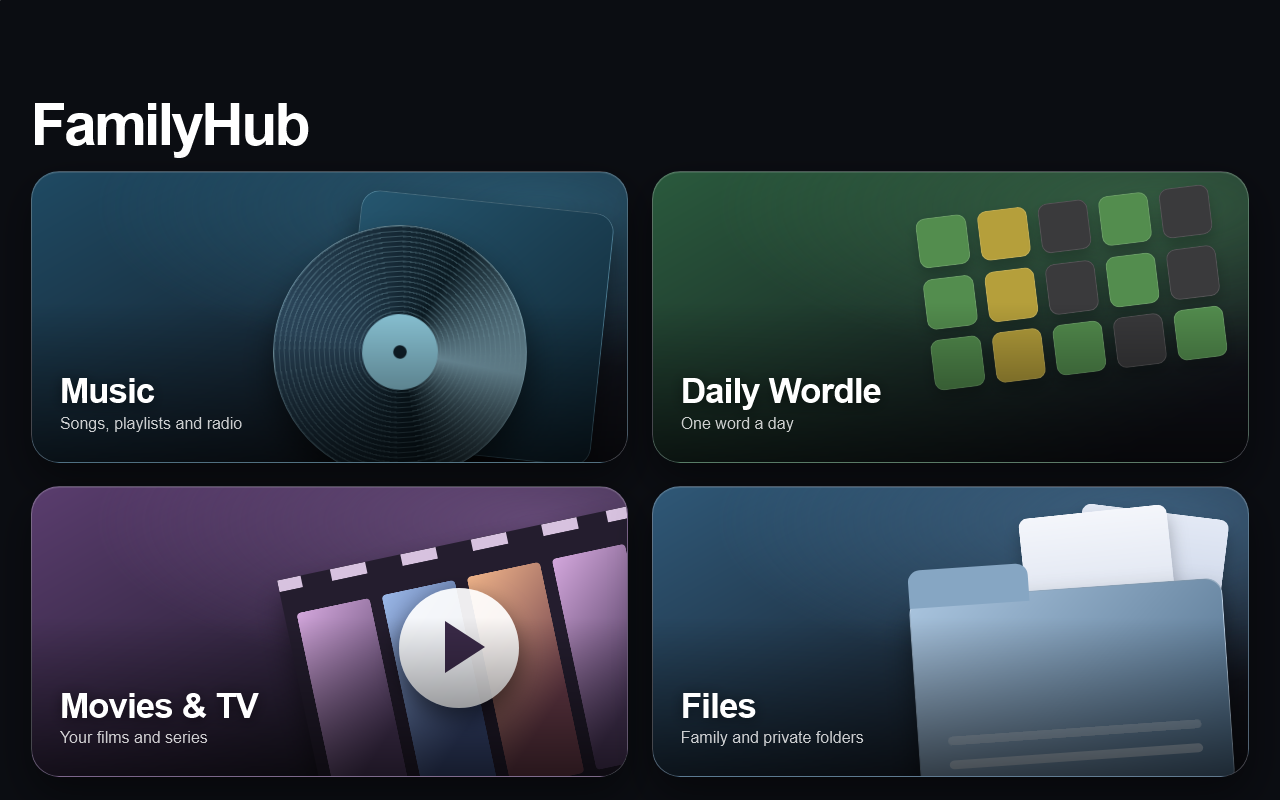
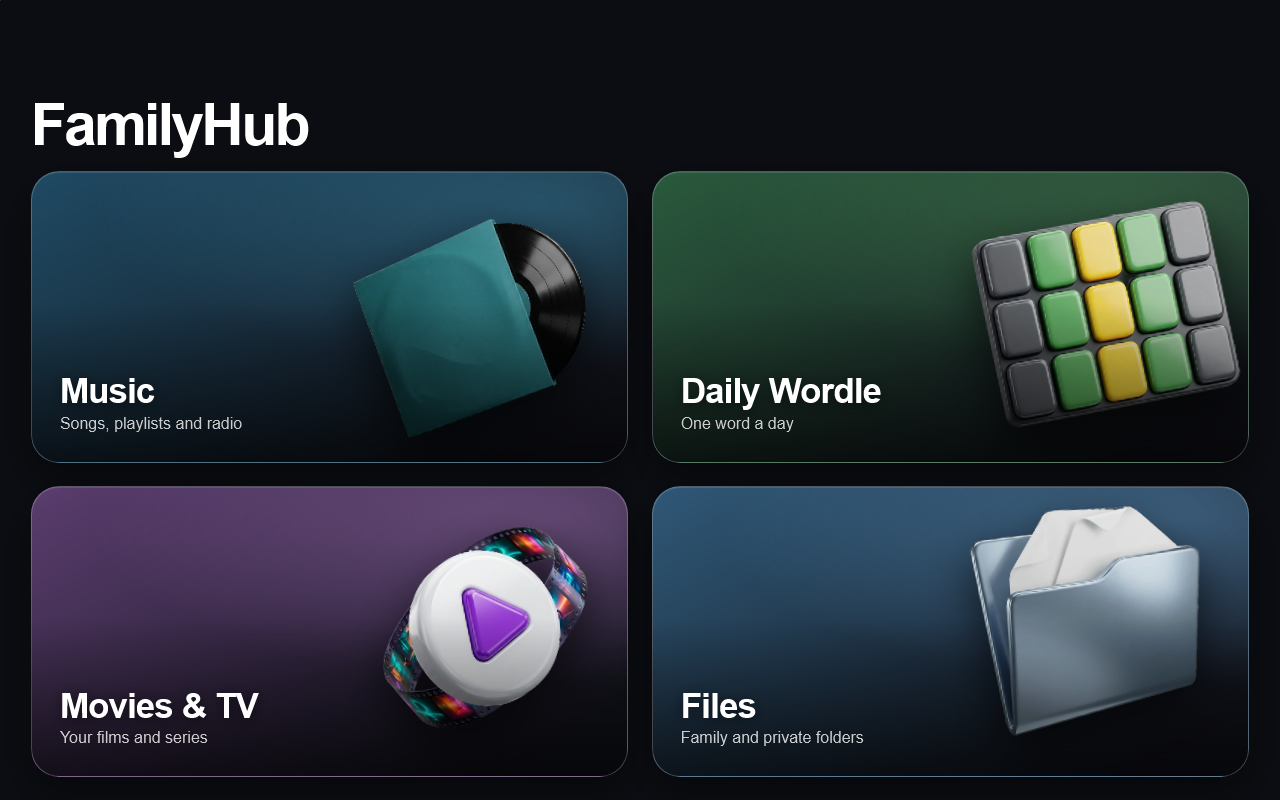
Release tiles with sorting and quality colours, picture tiles on the apps screen, opening zoom

diff --git a/clients/FamilyHub.App/wwwroot/movie-releases.js b/clients/FamilyHub.App/wwwroot/movie-releases.js
@@ -24,18 +24,42 @@ export function releaseKind(title) {
     return season ? `Full season ${Number(season[1])}` : "";
 }
 
-/** A short quality label (4K, 1080p, ...) and the source it was made from, read from the release name. */
+const TIERS = {
+    uhd: { rank: 6, note: "Ultra HD: the sharpest picture." },
+    remux: { rank: 5, note: "Remux: the untouched Blu-ray video. The best picture there is, and a very big file." },
+    bluray: { rank: 4, note: "Blu-ray: a compressed copy of the disc, a very good picture." },
+    web: { rank: 3, note: "Web: taken from a streaming service." },
+    hd: { rank: 2, note: "HD, but smaller and softer than 1080p." },
+    tv: { rank: 1, note: "From TV or DVD. A plain picture." },
+    poor: { rank: 0, note: "Low quality: a camera copy or a very small picture." }
+};
+
+/** The quality tier (drives the colour), a short label such as "1080p Blu-ray", and a plain-words note. */
 export function releaseQuality(title) {
     const height = resolution(title);
+    const hdr = /\b(?:HDR10\+?|HDR|DV|Dolby[ ._-]?Vision)\b/i.test(title);
+    const camera = /\b(?:CAM|HDCAM|TS|HDTS|TELESYNC|TELECINE)\b/i.test(title);
+    const remux = /\bremux\b/i.test(title);
+    const bluray = /\b(?:blu-?ray|bdrip|brrip)\b/i.test(title);
+    const web = /\b(?:web-?dl|webrip|web)\b/i.test(title);
+    const tv = /\b(?:hdtv|pdtv|dvdrip)\b/i.test(title);
+    const source = camera ? "Camera copy" : remux ? "Remux" : bluray ? "Blu-ray" : web ? "Web" : tv ? "TV or DVD" : "";
     const picture = height >= 2160 ? "4K" : height ? `${height}p` : "";
-    const hdr = /\b(?:HDR10\+?|HDR|DV|Dolby[ ._-]?Vision)\b/i.test(title) ? "HDR" : "";
-    let source = "";
-    if (/\b(?:CAM|HDCAM|TS|HDTS|TELESYNC|TELECINE)\b/i.test(title)) source = "Camera copy";
-    else if (/\bremux\b/i.test(title)) source = "Remux";
-    else if (/\b(?:blu-?ray|bdrip|brrip)\b/i.test(title)) source = "Blu-ray";
-    else if (/\b(?:web-?dl|webrip|web)\b/i.test(title)) source = "Web";
-    else if (/\b(?:hdtv|pdtv|dvdrip)\b/i.test(title)) source = "TV or DVD";
-    return { label: [picture, hdr].filter(Boolean).join(" · ") || "Quality unknown", source, poor: source === "Camera copy" || (height > 0 && height < 720) };
+    let tier = "web";
+    if (camera || (height > 0 && height < 576)) tier = "poor";
+    else if (height >= 2160) tier = "uhd";
+    else if (remux) tier = "remux";
+    else if (bluray) tier = "bluray";
+    else if (web) tier = "web";
+    else if (tv) tier = "tv";
+    else if (height >= 1080) tier = "bluray";
+    else if (height >= 720) tier = "hd";
+    else tier = "tv";
+    if (tier === "web" && height > 0 && height < 1080 && height >= 720) tier = "hd";
+    const label = height >= 2160
+        ? ["4K", hdr ? "HDR" : "", remux ? "Remux" : bluray ? "Blu-ray" : web ? "Web" : ""].filter(Boolean).join(" ")
+        : [picture, source].filter(Boolean).join(" ") || "Quality unknown";
+    return { tier, label, source, poor: tier === "poor", rank: TIERS[tier].rank, note: TIERS[tier].note };
 }
 
 export function downloadTime(bytes, mbps = ASSUMED_MBPS) {
@@ -44,12 +68,33 @@ export function downloadTime(bytes, mbps = ASSUMED_MBPS) {
     return minutes < 60 ? `about ${minutes} min` : `about ${Math.floor(minutes / 60)} h ${String(minutes % 60).padStart(2, "0")} min`;
 }
 
-function health(seeders) {
-    if (!seeders) return ["none", seeders === 0 ? "No seeders" : "Seeders unknown"];
-    return [seeders >= 5 ? "good" : "low", `${seeders} ${seeders === 1 ? "seeder" : "seeders"}`];
+/** How easy the file is to get, in words. The number of people sharing it stays in the tooltip. */
+export function availability(seeders) {
+    if (seeders === null || seeders === undefined) return ["unknown", "Availability unknown"];
+    if (seeders >= 100) return ["great", "Very easy to get"];
+    if (seeders >= 20) return ["good", "Easy to get"];
+    if (seeders >= 5) return ["ok", "Available"];
+    if (seeders >= 1) return ["slow", "Slow, few sources"];
+    return ["none", "Hard to get"];
 }
 
-export function buildReleaseSearch(search, signal, requestsEnabled) {
+/** A readable name for the tile: the title, then the year when the release name has one. */
+export function displayTitle(name) {
+    const spaced = name.replace(/[[(].*?[\])]/g, " ").replace(/[._]+/g, " ");
+    const cut = spaced.search(/\b(?:19|20)\d{2}\b|\bS\d{1,2}(?:E\d{1,3})?\b|\b(?:2160|1440|1080|720|576|480)[pi]\b|\bseasons?\b|\bcomplete\b|\b(?:uhd|bluray|blu-ray|web-?dl|webrip|hdtv|remux)\b/i);
+    const title = (cut > 0 ? spaced.slice(0, cut) : spaced).replace(/\s+/g, " ").trim();
+    const year = name.match(/(?:^|[ ._([])((?:19|20)\d{2})(?=[ ._)\]]|$)/)?.[1];
+    return (title || name) + (year && cut > 0 ? ` (${year})` : "");
+}
+
+const SORTS = [
+    ["best", "Best match"],
+    ["quality", "Quality"],
+    ["size", "Smallest file"],
+    ["speed", "Easiest to get"]
+];
+
+export function buildReleaseSearch(search, signal, requestsEnabled, download = null) {
     const panel = document.createElement("section");
     panel.className = "movie-releases";
     panel.hidden = true;
@@ -58,7 +103,8 @@ export function buildReleaseSearch(search, signal, requestsEnabled) {
         <button type="button" hidden>Retry release lookup</button>
         <details class="movie-source-details" hidden>
             <summary>Releases</summary>
-            <p class="movie-web-meta" data-release-availability hidden>Your profile cannot request downloads, so this list is for reference.</p>
+            <div class="movie-release-tools" role="group" aria-label="Sort releases"></div>
+            <p class="movie-web-meta" data-release-availability hidden>Downloading is not switched on for your profile. Ask the server owner to turn it on.</p>
             <p class="movie-web-meta">Times assume a ${ASSUMED_MBPS} Mbps connection.</p>
             <ul class="movie-source-list" aria-label="Release results"></ul>
             <button type="button" class="movie-release-more" hidden>Show all releases</button>
@@ -67,10 +113,22 @@ export function buildReleaseSearch(search, signal, requestsEnabled) {
     const options = panel.querySelector("details");
     const summary = options.querySelector("summary");
     const more = panel.querySelector(".movie-release-more");
-    options.querySelector("[data-release-availability]").hidden = !!requestsEnabled;
+    const tools = panel.querySelector(".movie-release-tools");
+    const canDownload = typeof download === "function";
+    options.querySelector("[data-release-availability]").hidden = canDownload;
     const status = panel.querySelector('[role="status"]');
     const list = panel.querySelector("ul");
-    let rows = [], unavailable = 0, busy = false, complete = false, showAll = false;
+    let rows = [], unavailable = 0, busy = false, complete = false, showAll = false, sortBy = "best";
+
+    const sortButtons = SORTS.map(([id, label]) => {
+        const choice = document.createElement("button");
+        choice.type = "button";
+        choice.textContent = label;
+        choice.dataset.sort = id;
+        choice.addEventListener("click", () => { sortBy = id; showAll = false; render(); });
+        tools.append(choice);
+        return choice;
+    });
 
     function chip(className, text, level) {
         const node = document.createElement("span");
@@ -80,32 +138,83 @@ export function buildReleaseSearch(search, signal, requestsEnabled) {
         return node;
     }
 
+    function compare(a, b) {
+        // Healthy releases first, so a perfect copy that nobody shares never leads the list.
+        const group = row => !row.seeders ? 2 : row.quality.rank >= 3 ? 0 : 1;
+        const quality = b.quality.rank - a.quality.rank || b.height - a.height;
+        const speed = (b.seeders ?? -1) - (a.seeders ?? -1);
+        const size = (a.size ?? 1e18) - (b.size ?? 1e18);
+        if (sortBy === "quality") return quality || speed || size;
+        if (sortBy === "size") return size || quality;
+        if (sortBy === "speed") return speed || quality;
+        return group(a) - group(b) || quality || speed || size;
+    }
+
     function render() {
         if (busy || !complete) return;
-        // Healthy 1080p and better first, then smaller pictures, then files nobody is sharing.
-        const group = row => !row.seeders ? 2 : row.height >= 1080 && !row.quality.poor ? 0 : 1;
-        const sorted = rows.slice().sort((a, b) => group(a) - group(b) || b.height - a.height || b.seeders - a.seeders || (a.size ?? 1e18) - (b.size ?? 1e18));
+        for (const choice of sortButtons) choice.setAttribute("aria-pressed", String(choice.dataset.sort === sortBy));
+        const sorted = rows.slice().sort(compare);
         const shown = showAll ? sorted : sorted.slice(0, FIRST_PAGE);
         list.replaceChildren(...shown.map((row, index) => {
             const item = document.createElement("li");
             item.className = "movie-release";
-            const top = document.createElement("div");
-            top.className = "movie-release-top";
-            if (index === 0 && group(row) === 0 && row.seeders >= 5) top.append(chip("movie-release-pick", "Recommended"));
-            top.append(chip("movie-release-quality", row.quality.label, row.quality.poor ? "poor" : ""));
-            if (row.kind) top.append(chip("movie-release-kind", row.kind));
-            const [level, seeding] = health(row.seeders);
-            top.append(chip("movie-release-health", seeding, level));
+            item.dataset.tier = row.quality.tier;
+            const head = document.createElement("div");
+            head.className = "movie-release-head";
+            const heading = document.createElement("h3");
+            heading.className = "movie-release-title";
+            heading.textContent = displayTitle(row.title);
+            const badges = document.createElement("div");
+            badges.className = "movie-release-top";
+            if (sortBy === "best" && index === 0 && row.seeders >= 20 && row.quality.rank >= 3) badges.append(chip("movie-release-pick", "Recommended"));
+            badges.append(chip("movie-release-quality", row.quality.label, row.quality.tier));
+            if (row.kind) badges.append(chip("movie-release-kind", row.kind));
+            head.append(heading, badges);
+
+            const [level, words] = availability(row.seeders);
+            const stats = document.createElement("dl");
+            stats.className = "movie-release-stats";
+            const stat = (label, value, extra) => {
+                const cell = document.createElement("div");
+                const term = document.createElement("dt"), detail = document.createElement("dd");
+                term.textContent = label;
+                detail.textContent = value;
+                if (extra) detail.dataset.level = extra;
+                cell.append(term, detail);
+                stats.append(cell);
+                return detail;
+            };
+            stat("Size", row.size ? `${(row.size / gib).toFixed(1)} GB` : "Unknown");
+            stat("Download time", row.size && row.seeders ? downloadTime(row.size) : "Not known");
+            const detail = stat("Availability", words, level);
+            if (row.seeders !== null) detail.title = `${row.seeders} ${row.seeders === 1 ? "person shares" : "people share"} this file`;
+
+            const note = document.createElement("p");
+            note.className = "movie-release-note";
+            note.textContent = row.quality.note + (row.size > 40 * gib ? " Big files use a lot of server space." : "");
+
             const name = document.createElement("strong");
             name.className = "movie-release-name";
             name.textContent = row.title;
-            const facts = document.createElement("p");
-            facts.className = "movie-release-facts";
-            const parts = [row.size ? `${(row.size / gib).toFixed(1)} GB` : "Size unknown"];
-            if (row.size && row.seeders) parts.push(`${downloadTime(row.size)} to download`);
-            if (row.quality.source) parts.push(row.quality.source);
-            facts.textContent = parts.join(" · ");
-            item.append(top, name, facts);
+
+            const action = document.createElement("button");
+            action.type = "button";
+            action.className = "movie-release-action";
+            action.textContent = "Download";
+            action.setAttribute("aria-label", `Download ${displayTitle(row.title)}, ${row.quality.label}, ${row.size ? (row.size / gib).toFixed(1) + " GB" : "size unknown"}`);
+            if (!canDownload) {
+                action.setAttribute("aria-disabled", "true");
+                action.title = "Downloading is not switched on for your profile.";
+            }
+            action.addEventListener("click", async () => {
+                if (!canDownload || action.getAttribute("aria-disabled") === "true") return;
+                action.setAttribute("aria-disabled", "true");
+                action.textContent = "Starting…";
+                const reply = await Promise.resolve(download(row)).catch(() => ({ error: "Could not start the download. Try again." }));
+                action.textContent = reply?.error ? "Try again" : "Added to the server";
+                if (reply?.error) { action.removeAttribute("aria-disabled"); status.textContent = reply.error; }
+            });
+            item.append(head, stats, note, name, action);
             return item;
         }));
         more.hidden = showAll || sorted.length <= FIRST_PAGE;
@@ -117,7 +226,7 @@ export function buildReleaseSearch(search, signal, requestsEnabled) {
         showAll = true;
         render();
         // Focus moves to the first newly shown release, so the button's removal never drops it to the page.
-        const next = list.querySelector(`li:nth-child(${FIRST_PAGE + 1}) strong`);
+        const next = list.querySelector(`li:nth-child(${FIRST_PAGE + 1}) .movie-release-title`);
         if (next) { next.tabIndex = -1; next.focus(); } else summary.focus();
     });
     async function load() {

diff --git a/clients/FamilyHub.App/wwwroot/startup.css b/clients/FamilyHub.App/wwwroot/startup.css
@@ -11,31 +11,37 @@
 .startup-screen, .night-backdrop { background:var(--night-backdrop); }
 .startup-screen { position:fixed; inset:0; z-index:100; display:grid; place-items:center; margin:0; overflow:hidden; }
 .startup-stage { display:grid; justify-items:center; gap:1.6rem; animation:startup-stage-in 1s cubic-bezier(.2,.7,.2,1) both; }
-.startup-disc { position:relative; width:92px; height:92px; animation:startup-rise 1.1s cubic-bezier(.2,.7,.2,1) both; }
-.startup-disc img { display:block; width:100%; height:100%; border-radius:50%; animation:startup-glow 2.8s ease-in-out 1.1s infinite; }
+.startup-disc { position:relative; width:92px; height:92px; animation:startup-rise 1.1s cubic-bezier(.2,.7,.2,1) both; will-change:transform, opacity; }
+.startup-disc::before { content:""; position:absolute; inset:-34%; border-radius:50%; background:radial-gradient(circle, #f19cda55 0, #89b4ff33 46%, #0000 70%); opacity:.35; animation:startup-glow 2.8s ease-in-out 1.1s infinite alternate; will-change:transform, opacity; }
+.startup-disc img { position:relative; display:block; width:100%; height:100%; border-radius:50%; }
 /* A ring of light that circles the logo while the app prepares itself. */
 .startup-orbit { position:absolute; inset:-16px; border-radius:50%; background:conic-gradient(from 0deg, #0000 0 62%, #89b4ff 86%, #f19cda 100%);
     -webkit-mask:radial-gradient(farthest-side, #0000 calc(100% - 3px), #000 calc(100% - 2px)); mask:radial-gradient(farthest-side, #0000 calc(100% - 3px), #000 calc(100% - 2px));
-    animation:startup-spin 1.7s linear infinite; opacity:.9; }
-.startup-word { margin:0; color:#ffffffe6; font:600 1.1rem/1 system-ui, -apple-system, "Segoe UI", Roboto, sans-serif; letter-spacing:.14em; text-indent:.14em; animation:startup-word-in 1.3s cubic-bezier(.2,.7,.2,1) .5s both; }
+    animation:startup-spin 1.7s linear infinite; opacity:.9; will-change:transform; }
+.startup-word { margin:0; color:#ffffffe6; font:600 1.1rem/1 system-ui, -apple-system, "Segoe UI", Roboto, sans-serif; letter-spacing:.14em; text-indent:.14em; animation:startup-word-in 1.3s cubic-bezier(.2,.7,.2,1) .5s both; will-change:transform, opacity; }
 .startup-line { position:absolute; left:50%; bottom:max(14vh, 4rem); width:min(16rem, 56vw); height:3px; border-radius:2px; background:#ffffff26; transform:translateX(-50%); animation:startup-stage-in .8s ease .9s both; }
-.startup-line span { display:block; height:100%; border-radius:2px; background:linear-gradient(90deg, #89b4ff, #f19cda); animation:startup-fill 3.2s cubic-bezier(.3,.6,.2,1) .9s both; }
+.startup-line span { display:block; width:100%; height:100%; border-radius:2px; background:linear-gradient(90deg, #89b4ff, #f19cda); transform-origin:left center; animation:startup-fill 3.2s cubic-bezier(.3,.6,.2,1) .9s both; will-change:transform; }
 /* Twinkling stars over the static ones in the backdrop. */
 .startup-twinkle { position:absolute; inset:0; pointer-events:none; background:
     radial-gradient(3px 3px at 22% 30%, #fff 45%, #0000 70%), radial-gradient(3px 3px at 71% 64%, #ffd9f2 45%, #0000 70%),
     radial-gradient(2px 2px at 56% 16%, #fff 45%, #0000 70%), radial-gradient(3px 3px at 84% 38%, #cfe0ff 45%, #0000 70%),
-    radial-gradient(2px 2px at 14% 74%, #fff 45%, #0000 70%); animation:startup-twinkle 3.4s ease-in-out infinite alternate; }
-.startup-screen.is-leaving { animation:startup-out .56s ease both; pointer-events:none; }
+    radial-gradient(2px 2px at 14% 74%, #fff 45%, #0000 70%); animation:startup-twinkle 3.4s ease-in-out infinite alternate; will-change:opacity; }
+.startup-screen.is-leaving { animation:startup-out .8s ease both; pointer-events:none; }
+.startup-screen.is-leaving .startup-disc { animation:startup-zoom .8s cubic-bezier(.55,0,.3,1) both; }
+.startup-screen.is-leaving .startup-disc::before { animation:none; opacity:0; }
+.startup-screen.is-leaving :is(.startup-word, .startup-line, .startup-orbit, .startup-twinkle) { animation:startup-fade .22s ease both; }
 @keyframes startup-rise { from { opacity:0; transform:translateY(16px) scale(.88); } to { opacity:1; transform:none; } }
 @keyframes startup-stage-in { from { opacity:0; } to { opacity:1; } }
-@keyframes startup-word-in { from { opacity:0; letter-spacing:.5em; text-indent:.5em; } to { opacity:1; letter-spacing:.14em; text-indent:.14em; } }
-@keyframes startup-glow { 0%,100% { box-shadow:0 0 22px 2px #89b4ff30; } 50% { box-shadow:0 0 40px 9px #f19cda45; } }
+@keyframes startup-word-in { from { opacity:0; transform:translateY(8px) scaleX(1.12); } to { opacity:1; transform:none; } }
+@keyframes startup-glow { from { opacity:.3; transform:scale(.94); } to { opacity:.85; transform:scale(1.08); } }
 @keyframes startup-spin { to { transform:rotate(360deg); } }
-@keyframes startup-fill { from { width:0; } to { width:100%; } }
+@keyframes startup-fill { from { transform:scaleX(0); } to { transform:scaleX(1); } }
 @keyframes startup-twinkle { from { opacity:.25; } to { opacity:1; } }
-@keyframes startup-out { to { opacity:0; transform:scale(1.035); } }
-.workspace { animation:startup-content .45s ease-out both; }
-@keyframes startup-content { from { opacity:0; } to { opacity:1; } }
+@keyframes startup-out { 0%, 40% { opacity:1; } 100% { opacity:0; } }
+@keyframes startup-zoom { 0% { transform:none; opacity:1; } 60% { opacity:1; } 100% { transform:scale(18); opacity:0; } }
+@keyframes startup-fade { to { opacity:0; } }
+.workspace { animation:startup-content .8s cubic-bezier(.2,.7,.2,1) .1s both; }
+@keyframes startup-content { from { opacity:0; transform:scale(1.05); } to { opacity:1; transform:none; } }
 
 /* Updating screen: same backdrop, the logo, and a progress line drawn like the movie seek bar. */
 .update-screen { position:fixed; inset:0; z-index:2000; display:grid; place-items:center; padding:max(1.5rem, env(safe-area-inset-top)) 1.5rem max(1.5rem, env(safe-area-inset-bottom)); color:#fff; text-align:center; animation:startup-content .3s ease-out both; }
@@ -52,6 +58,8 @@
     .startup-stage, .startup-disc, .startup-disc img, .startup-orbit, .startup-word, .startup-line, .startup-line span, .startup-twinkle, .workspace, .update-screen { animation:none; }
     .startup-line span { width:100%; }
     .startup-screen.is-leaving { animation:startup-out .2s ease both; }
+    .startup-disc::before { animation:none; }
+    .startup-screen.is-leaving .startup-disc { animation:none; }
     .update-line-fill, .update-line-thumb { transition:none; }
 }
 

diff --git a/clients/FamilyHub.App/wwwroot/hub.css b/clients/FamilyHub.App/wwwroot/hub.css
@@ -36,37 +36,10 @@ body:has(.workspace:is([data-app-view="Hub"], [data-app-view="Wordle"], [data-ap
 .hub-grid .hub-card::after { content:""; position:absolute; inset:auto 0 0 0; height:55%; z-index:1; pointer-events:none; background:linear-gradient(transparent,#0000009e); }
 .hub-art > * { position:absolute; }
 
-/* Music: a record sliding out of its sleeve. */
-.hub-sleeve { right:calc(var(--art) * .1); top:calc(var(--art) * .12); width:calc(var(--art) * 1.05); aspect-ratio:1; border-radius:calc(var(--art) * .08);
-    background:linear-gradient(135deg,#25566f,#0f2431); border:1px solid #9fd0e255; transform:rotate(6deg); box-shadow:0 18px 30px #0007; }
-.hub-record { right:calc(var(--art) * .42); top:calc(var(--art) * .22); width:calc(var(--art) * 1.05); aspect-ratio:1; border-radius:50%; transform:rotate(-4deg);
-    background:radial-gradient(circle,#10202a 0 3.5%,#8cc7d9 4% 21%,transparent 21.5%),
-        repeating-radial-gradient(circle,#7fa8b552 0 1px,transparent 1.5px 5px),
-        conic-gradient(from 36deg,#0b1a22,#7fa6b6,#0b1a22 38%,#2e4a60,#0b1a22);
-    box-shadow:0 20px 34px #0008; border:1px solid #a2cedb66; }
-
-/* Wordle: a board of scored tiles. */
-.hub-tiles { right:calc(var(--art) * .12); top:calc(var(--art) * .12); display:grid; grid-template-columns:repeat(5,calc(var(--art) * .21)); gap:calc(var(--art) * .045); transform:rotate(-7deg); }
-.hub-tiles i { aspect-ratio:1; background:#3a3a3c; border:1px solid #ffffff22; border-radius:calc(var(--art) * .04); box-shadow:0 8px 14px #0003; }
-.hub-tiles i:nth-child(5n+1), .hub-tiles i:nth-child(5n+4), .hub-tiles i:nth-child(n+11) { background:#538d4e; }
-.hub-tiles i:nth-child(5n+2), .hub-tiles i:nth-child(12) { background:#b59f3b; }
-.hub-tiles i:nth-child(14) { background:#3a3a3c; }
-
-/* Movies: a film strip behind a play button. */
-.hub-film { right:calc(var(--art) * -.15); top:calc(var(--art) * .22); display:flex; gap:calc(var(--art) * .05); width:calc(var(--art) * 1.4); height:calc(var(--art) * .9);
-    padding:calc(var(--art) * .1) calc(var(--art) * .05); transform:rotate(-12deg); border-block:calc(var(--art) * .05) dashed #d7c2df; background:#241d2e; box-shadow:0 18px 30px #0007; }
-.hub-film i { flex:1; border-radius:calc(var(--art) * .02); background:linear-gradient(135deg,#d3a7dc,#4d395d 70%); }
-.hub-film i:nth-child(2) { background:linear-gradient(135deg,#9bb8e8,#3a4a78 70%); }.hub-film i:nth-child(3) { background:linear-gradient(135deg,#f0b48a,#6a3c4a 70%); }
-.hub-play { right:calc(var(--art) * .45); top:calc(var(--art) * .42); width:calc(var(--art) * .5); aspect-ratio:1; border-radius:50%; background:#ffffffeb; box-shadow:0 10px 24px #0008; }
-.hub-play::after { content:""; position:absolute; left:38%; top:28%; border-left:calc(var(--art) * .17) solid #3a2a48; border-block:calc(var(--art) * .11) solid transparent; }
-
-/* Files: a folder holding two sheets. */
-.hub-sheet { right:calc(var(--art) * .3); top:calc(var(--art) * .1); width:calc(var(--art) * .62); height:calc(var(--art) * .78); border-radius:calc(var(--art) * .04); background:linear-gradient(#f4f6fb,#c9d3e6); transform:rotate(-6deg); box-shadow:0 10px 18px #0004; }
-.hub-sheet-back { right:calc(var(--art) * .12); transform:rotate(7deg); background:linear-gradient(#e3e9f5,#b6c3dc); }
-.hub-folder { right:calc(var(--art) * .08); top:calc(var(--art) * .42); width:calc(var(--art) * 1.3); height:calc(var(--art) * .86); border-radius:calc(var(--art) * .07); transform:rotate(-4deg);
-    background:linear-gradient(135deg,#a9c4de,#4b6a86); box-shadow:0 18px 30px #0007; border:1px solid #ffffff44; }
-.hub-folder::before { content:""; position:absolute; left:0; top:calc(var(--art) * -.12); width:calc(var(--art) * .5); height:calc(var(--art) * .16); border-radius:calc(var(--art) * .05) calc(var(--art) * .05) 0 0; background:#86a6c3; }
-.hub-folder i { position:absolute; left:calc(var(--art) * .12); right:calc(var(--art) * .12); bottom:calc(var(--art) * .14); height:calc(var(--art) * .04); border-radius:99px; background:#ffffff66; box-shadow:0 calc(var(--art) * -.1) 0 #ffffff44; }
+/* One generated picture per app (Meshy, text-free, transparent background), sized from --art. */
+.hub-image { position:absolute; right:2%; top:4%; height:90%; width:auto; aspect-ratio:1; object-fit:contain;
+    transform:rotate(-4deg); filter:drop-shadow(0 calc(var(--art) * .08) calc(var(--art) * .1) #000a); transition:transform .3s cubic-bezier(.2,.7,.2,1); will-change:transform; }
+@media (hover:hover) { .hub-card:hover .hub-image { transform:translateY(-6px) scale(1.05) rotate(-4deg); } }
 
 .hub-grid button:focus-visible { outline:3px solid var(--accent,#91baff); outline-offset:3px; }
 @media (hover:hover) { .hub-card:hover { transform:translateY(-4px); border-color:#ffffff90; box-shadow:inset 0 1px #ffffff1c, 0 26px 50px #0008; } }
@@ -76,6 +49,7 @@ body:has(.workspace:is([data-app-view="Hub"], [data-app-view="Wordle"], [data-ap
     .hub-grid { grid-auto-rows:minmax(190px,1fr); gap:12px; }
     .hub-grid .hub-card { align-items:flex-end; padding:14px; }
     .hub-note { display:none; }
+    .hub-image { right:calc(var(--art) * -.06); top:calc(var(--art) * .02); width:calc(var(--art) * 1.5); height:auto; }
     .hub-tiles { grid-template-columns:repeat(3,calc(var(--art) * .26)); }.hub-tiles i:nth-child(n+10) { display:none; }
 }
 @media (min-width:1600px) { /* television */

diff --git a/clients/FamilyHub.App/wwwroot/movies.css b/clients/FamilyHub.App/wwwroot/movies.css
@@ -461,3 +461,46 @@ html.movie-expanded-page, html.movie-expanded-page body { overflow: hidden; }
 .movie-sound-readout { text-align: right; font-variant-numeric: tabular-nums; }
 .movie-sound-hint { margin: -.4rem 0 0; color: #ffffffb3; font-size: .85rem; }
 .movie-sound-hint[hidden], .movie-sound-body .movie-track-col[hidden] { display: none; }
+
+/* Search at the top, centred, one soft focus ring on the whole bar (not a second ring on the input). */
+.movie-library .movie-toolbar, .movie-library .movie-search-results, .movie-library .movie-releases { max-width: 60rem; margin-inline: auto; }
+.movie-library .movie-toolbar { position: sticky; top: 0; z-index: 6; padding: .6rem 0 .5rem; background: linear-gradient(#0b0d12f2 78%, #0b0d1200); }
+.movie-library .movie-search { max-width: none; border-radius: 999px; background: #171a22; border-color: #ffffff2e; }
+.movie-library .movie-search:focus-within { border-color: var(--focus, #98abed); box-shadow: 0 0 0 3px #98abed38; }
+.movie-library .movie-search input { padding-inline: 1.3rem .4rem; }
+.movie-library .movie-search input:focus-visible { outline: none; }
+.movie-library .movie-search button { border-radius: 999px; }
+
+/* Release tiles: a bigger card each, quality shown by colour, words instead of seeders. */
+.movie-release-tools { display: flex; flex-wrap: wrap; gap: .45rem; margin: .7rem 0 .9rem; }
+.movie-releases .movie-release-tools button { min-height: 40px; padding: 0 1.05rem; border: 1px solid #ffffff2e; border-radius: 999px; background: transparent; color: inherit; font: inherit; font-size: .92rem; }
+.movie-releases .movie-release-tools button[aria-pressed="true"] { background: #fff; border-color: #fff; color: #0b0d12; font-weight: 700; }
+.movie-source-list li.movie-release { gap: .75rem; padding: 1.15rem 1.3rem; margin-bottom: .8rem; border-radius: 1.05rem; }
+.movie-release-head { display: grid; gap: .5rem; }
+.movie-releases .movie-release-title { margin: 0; font-size: 1.2rem; line-height: 1.25; font-weight: 700; color: #fff; }
+.movie-release-stats { display: grid; grid-template-columns: repeat(auto-fit, minmax(8.5rem, 1fr)); gap: .5rem 1.2rem; margin: 0; }
+.movie-release-stats > div { display: grid; gap: .1rem; }
+.movie-release-stats dt { font-size: .78rem; color: #ffffff99; }
+.movie-release-stats dd { margin: 0; font-size: 1.12rem; font-weight: 700; color: #fff; }
+.movie-release-stats dd[data-level="great"], .movie-release-stats dd[data-level="good"] { color: #7ee2a0; }
+.movie-release-stats dd[data-level="ok"] { color: #7fd3e8; }
+.movie-release-stats dd[data-level="slow"] { color: #f2c46d; }
+.movie-release-stats dd[data-level="none"] { color: #ff9b9b; }
+.movie-releases .movie-release-note { color: #ffffffb8; font-size: .9rem; }
+.movie-releases .movie-release-action { justify-self: start; min-height: 46px; padding: 0 1.5rem; border: 0; border-radius: .75rem; background: linear-gradient(135deg, #89b4ff, #f19cda); color: #0b0d12; font: inherit; font-weight: 700; cursor: pointer; }
+.movie-releases .movie-release-action[aria-disabled="true"] { background: #ffffff1f; color: #ffffffcc; cursor: not-allowed; }
+.movie-releases .movie-release-action:focus-visible { outline: 3px solid #fff; outline-offset: 3px; }
+
+/* One colour per quality tier. 4K is the showpiece; Remux is the best 1080p; the rest step down in colour and shine. */
+.movie-release-top > .movie-release-quality { border: 0; box-shadow: none; color: #fff; }
+.movie-release-quality[data-level="uhd"] { background: linear-gradient(110deg, #ffd76a, #ff9e5e 45%, #ff6fb5, #ffd76a); background-size: 220% 100%; color: #2a1400; box-shadow: 0 0 16px #ffb45e66; animation: movie-shine 5s linear infinite; }
+.movie-release-quality[data-level="remux"] { background: linear-gradient(120deg, #9a78ff, #4f8cff); box-shadow: 0 0 12px #7a8cff55; }
+.movie-release-quality[data-level="bluray"] { background: #2f6fe4; }
+.movie-release-quality[data-level="web"] { background: #14998d; }
+.movie-release-quality[data-level="hd"] { background: #5b6b82; }
+.movie-release-quality[data-level="tv"] { background: #4a4f5c; }
+.movie-release-quality[data-level="poor"] { background: #c2410c; }
+li.movie-release[data-tier="uhd"] { border-color: #ffb45e66; box-shadow: inset 0 0 0 1px #ffb45e26, 0 0 24px #ffb45e14; }
+li.movie-release[data-tier="remux"] { border-color: #8f8cff66; }
+@keyframes movie-shine { to { background-position: -220% 0; } }
+@media (prefers-reduced-motion: reduce) { .movie-release-quality[data-level="uhd"] { animation: none; } }
